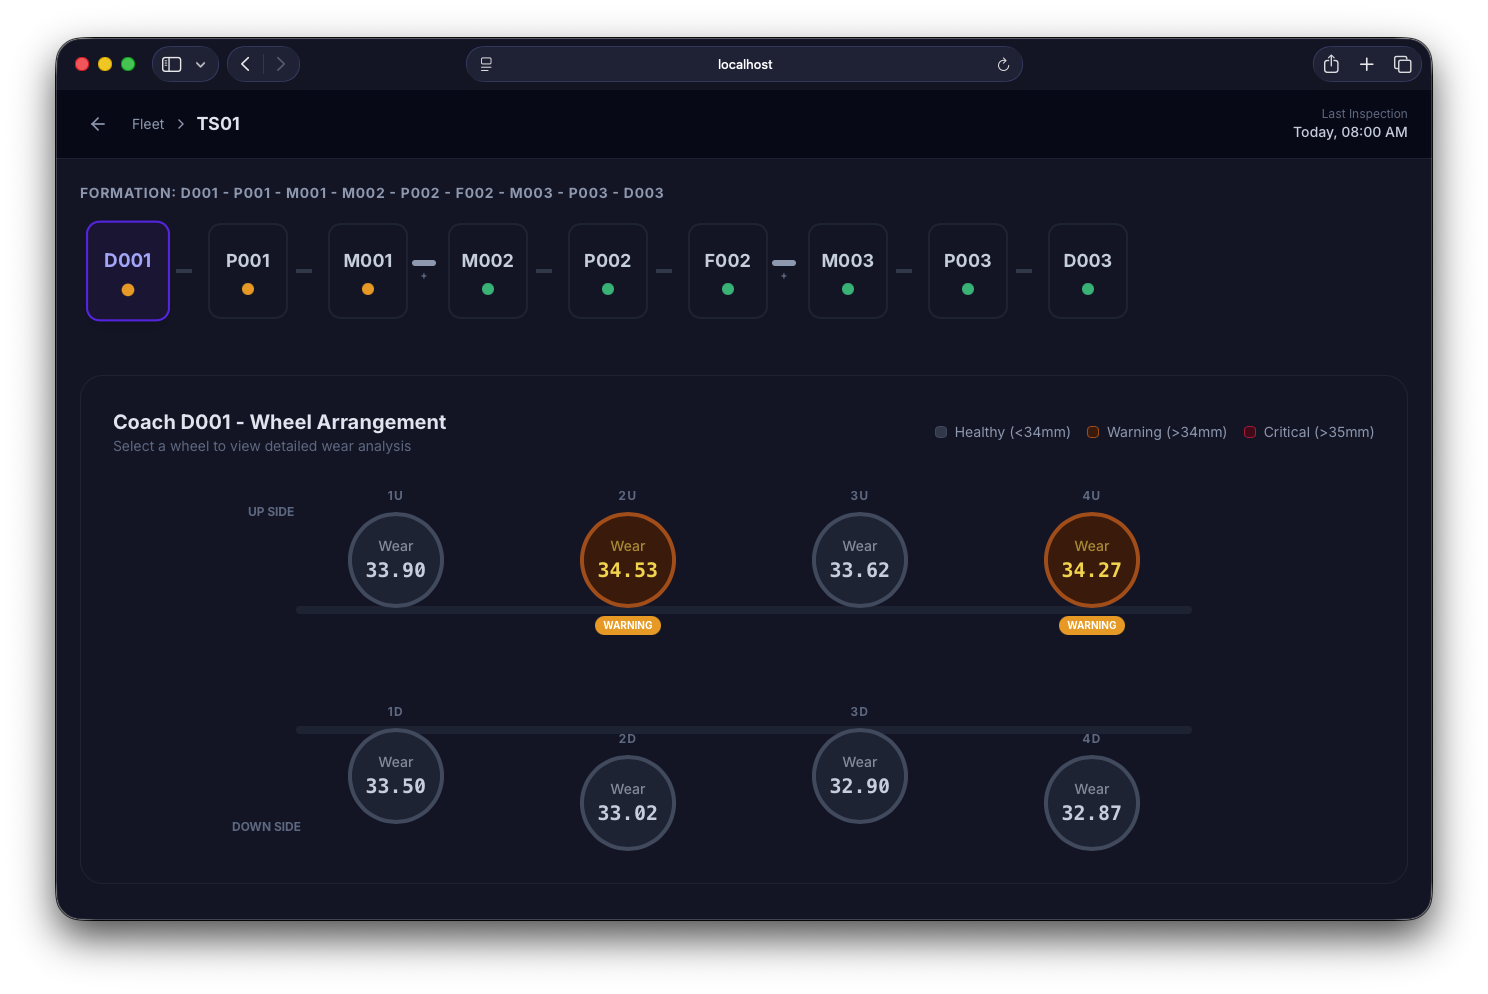
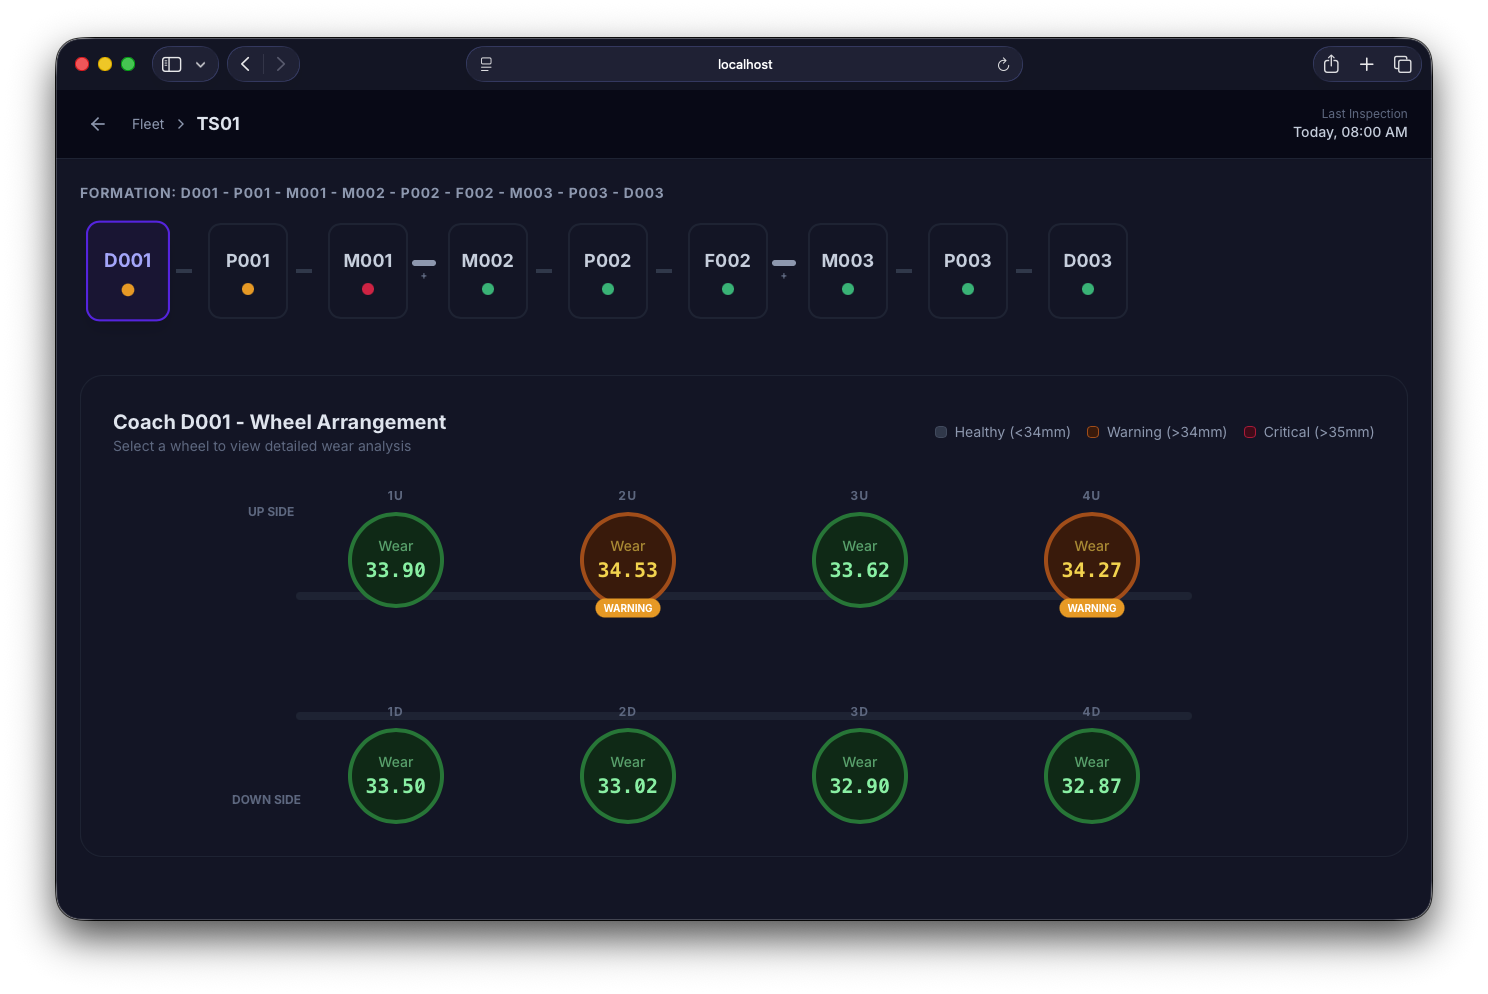
Refactor page.tsx to enhance wheel status determination logic and improve UI responsiveness

diff --git a/src/app/page.tsx b/src/app/page.tsx
@@ -5,9 +5,9 @@ import {
     LineChart, Line, XAxis, YAxis, CartesianGrid, Tooltip, Legend, 
     ResponsiveContainer, ReferenceLine, Area, ComposedChart 
 } from 'recharts';
-import { 
-    AlertTriangle, Train, Search, ChevronRight, Activity, 
-    ArrowLeft, Info, X 
+import {
+    AlertTriangle, Train, Search, ChevronRight, Activity,
+    ArrowLeft, Info, X, RefreshCw
 } from 'lucide-react';
 
 // --- CONSTANTS & LOGIC ---
@@ -58,13 +58,19 @@ const fetchFleet = async () => {
                 for (const wheelId in wheelMap) {
                     const record = wheelMap[wheelId];
 
-                    const currentVal = record.mean.toFixed(2);
+                     const currentVal = record.mean.toFixed(2);
 
-                    // Determine status based on mean
-                    const val = parseFloat(currentVal);
-                    let status: 'healthy' | 'warning' | 'critical' = 'healthy';
-                    if (val >= LIMIT_CRITICAL) status = 'critical';
-                    else if (val >= LIMIT_WARNING) status = 'warning';
+                     // Determine status based on mean and max
+                     const meanVal = parseFloat(record.mean);
+                     const maxVal = parseFloat(record.max);
+                     let status: 'healthy' | 'warning' | 'critical' = 'healthy';
+                     if (meanVal >= LIMIT_CRITICAL) {
+                         status = 'critical';
+                     } else if (meanVal > LIMIT_WARNING && maxVal >= LIMIT_CRITICAL) {
+                         status = 'critical';
+                     } else if (meanVal >= LIMIT_WARNING) {
+                         status = 'warning';
+                     }
 
                     wheels.push({
                         id: `${trainId}-${coachId}-${wheelId}`,
@@ -96,16 +102,17 @@ const fetchFleet = async () => {
                 if (match) {
                     const type = match[1];
                     const num = parseInt(match[2]);
+                    const mod = num % 3;
                     let typeIndex = 0;
-                    if (num === 1) {
+                    if (mod === 1) {
                         if (type === 'D') typeIndex = 0;
                         else if (type === 'P') typeIndex = 1;
                         else if (type === 'M') typeIndex = 2;
-                    } else if (num === 2) {
+                    } else if (mod === 2) {
                         if (type === 'M') typeIndex = 0;
                         else if (type === 'P') typeIndex = 1;
                         else if (type === 'F') typeIndex = 2;
-                    } else if (num === 3) {
+                    } else if (mod === 0) {
                         if (type === 'M') typeIndex = 0;
                         else if (type === 'P') typeIndex = 1;
                         else if (type === 'D') typeIndex = 2;
@@ -178,7 +185,7 @@ const WheelButton = ({ wheel, onClick }: { wheel: any, onClick: () => void }) =>
     if (!wheel) return <div className="w-24 h-24"></div>;
     
     const statusColors = {
-        healthy: 'bg-white border-slate-300 text-slate-600 hover:border-indigo-400 dark:bg-slate-800 dark:border-slate-600 dark:text-slate-300 dark:hover:border-indigo-500',
+        healthy: 'bg-green-50 border-green-400 text-green-700 hover:bg-green-100 dark:bg-green-950 dark:border-green-700 dark:text-green-300 dark:hover:bg-green-900',
         warning: 'bg-amber-50 border-amber-400 text-amber-700 hover:bg-amber-100 dark:bg-amber-950 dark:border-amber-700 dark:text-amber-300 dark:hover:bg-amber-900',
         critical: 'bg-rose-50 border-rose-500 text-rose-700 hover:bg-rose-100 dark:bg-rose-950 dark:border-rose-700 dark:text-rose-300 dark:hover:bg-rose-900'
     };
@@ -186,21 +193,23 @@ const WheelButton = ({ wheel, onClick }: { wheel: any, onClick: () => void }) =>
     return (
         <div className="flex flex-col items-center gap-2">
             <div className="text-xs font-bold text-slate-400 dark:text-slate-500 tracking-widest">{wheel.position}</div>
-            <button 
-                onClick={onClick}
-                className={`
-                    w-24 h-24 rounded-full border-4 shadow-sm transition-all hover:scale-105 flex flex-col items-center justify-center
-                    ${statusColors[wheel.status]}
-                `}
-            >
-                <div className="text-sm font-medium opacity-60">Wear</div>
-                <div className="text-xl font-bold font-mono">{wheel.currentVal}</div>
-            </button>
-            {wheel.status !== 'healthy' && (
-                <div className={`text-[10px] font-bold uppercase px-2 py-0.5 rounded-full ${wheel.status === 'critical' ? 'bg-rose-600 text-white' : 'bg-amber-500 text-white'}`}>
-                    {wheel.status}
-                </div>
-            )}
+            <div className="relative">
+                <button
+                    onClick={onClick}
+                    className={`
+                        w-24 h-24 rounded-full border-4 shadow-sm transition-all hover:scale-105 flex flex-col items-center justify-center
+                        ${statusColors[wheel.status]}
+                    `}
+                >
+                    <div className="text-sm font-medium opacity-60">Wear</div>
+                    <div className="text-xl font-bold font-mono">{wheel.currentVal}</div>
+                </button>
+                {wheel.status !== 'healthy' && (
+                    <div className={`absolute bottom-0 left-1/2 transform -translate-x-1/2 translate-y-1/2 text-[10px] font-bold uppercase px-2 py-0.5 rounded-full ${wheel.status === 'critical' ? 'bg-rose-600 text-white' : 'bg-amber-500 text-white'}`}>
+                        {wheel.status}
+                    </div>
+                )}
+            </div>
         </div>
     );
 };
@@ -215,14 +224,15 @@ const HomePage = () => {
     const [isClient, setIsClient] = useState(false);
     const [isLoading, setIsLoading] = useState(true);
 
+    const loadData = async () => {
+        setIsLoading(true);
+        const data = await fetchFleet();
+        setFleetData(data);
+        setIsClient(true);
+        setIsLoading(false);
+    };
+
     useEffect(() => {
-        const loadData = async () => {
-            setIsLoading(true);
-            const data = await fetchFleet();
-            setFleetData(data);
-            setIsClient(true);
-            setIsLoading(false);
-        };
         loadData();
     }, []);
 
@@ -299,17 +309,25 @@ const HomePage = () => {
                             <p className="text-slate-500 dark:text-slate-400 text-sm mt-1">Real-time Wheel Wear Analysis • 37 Active Trains</p>
                         </div>
                         <div className="flex items-center gap-4">
-                            <div className="relative">
-                                <Search className="absolute left-3 top-2.5 text-slate-400 dark:text-slate-500 w-4 h-4" />
-                                <input 
-                                    type="text" 
-                                    placeholder="Search TS01..." 
-                                    className="pl-10 pr-4 py-2 border border-slate-200 dark:border-slate-700 bg-white dark:bg-slate-800 rounded-lg focus:outline-none focus:ring-2 focus:ring-indigo-500 w-64 text-sm"
-                                    value={searchTerm}
-                                    onChange={(e) => setSearchTerm(e.target.value)}
-                                />
-                            </div>
-                            <div className="flex gap-2 text-xs font-medium">
+                             <div className="relative">
+                                 <Search className="absolute left-3 top-2.5 text-slate-400 dark:text-slate-500 w-4 h-4" />
+                                 <input
+                                     type="text"
+                                     placeholder="Search TS01..."
+                                     className="pl-10 pr-4 py-2 border border-slate-200 dark:border-slate-700 bg-white dark:bg-slate-800 rounded-lg focus:outline-none focus:ring-2 focus:ring-indigo-500 w-64 text-sm"
+                                     value={searchTerm}
+                                     onChange={(e) => setSearchTerm(e.target.value)}
+                                 />
+                             </div>
+                             <button
+                                 onClick={loadData}
+                                 disabled={isLoading}
+                                 className="px-4 py-2 bg-indigo-600 text-white rounded-lg hover:bg-indigo-700 disabled:bg-slate-400 disabled:cursor-not-allowed text-sm font-medium flex items-center gap-2"
+                             >
+                                 <RefreshCw className={`w-4 h-4 ${isLoading ? 'animate-spin' : ''}`} />
+                                 {isLoading ? 'Fetching...' : 'Fetch'}
+                             </button>
+                             <div className="flex gap-2 text-xs font-medium">
                                 <span className="flex items-center gap-1 px-2 py-1 bg-rose-100 dark:bg-rose-950 text-rose-700 dark:text-rose-300 rounded">
                                     <div className="w-2 h-2 bg-rose-600 rounded-full"></div> Critical
                                 </span>
@@ -328,16 +346,16 @@ const HomePage = () => {
                                     onClick={() => handleTrainSelect(train.id)}
                                     className={`
                                         relative group p-4 rounded-xl border transition-all duration-200 flex flex-col items-center justify-center gap-3 h-32
-                                        ${train.status === 'critical' ? 'bg-rose-50 dark:bg-rose-950/50 border-rose-200 dark:border-rose-800/50 hover:bg-rose-100 dark:hover:bg-rose-950 hover:border-rose-300 dark:hover:border-rose-800' : 
-                                        train.status === 'warning' ? 'bg-amber-50 dark:bg-amber-950/50 border-amber-200 dark:border-amber-800/50 hover:bg-amber-100 dark:hover:bg-amber-950 hover:border-amber-300 dark:hover:border-amber-800' : 
-                                        'bg-white dark:bg-slate-900 border-slate-200 dark:border-slate-800 hover:border-indigo-300 dark:hover:border-indigo-700 hover:shadow-md'}
+                                        ${train.status === 'critical' ? 'bg-rose-50 dark:bg-rose-950/50 border-rose-200 dark:border-rose-800/50 hover:bg-rose-100 dark:hover:bg-rose-950 hover:border-rose-300 dark:hover:border-rose-800' :
+                                        train.status === 'warning' ? 'bg-amber-50 dark:bg-amber-950/50 border-amber-200 dark:border-amber-800/50 hover:bg-amber-100 dark:hover:bg-amber-950 hover:border-amber-300 dark:hover:border-amber-800' :
+                                        'bg-green-50 dark:bg-green-950/50 border-green-200 dark:border-green-800/50 hover:bg-green-100 dark:hover:bg-green-950 hover:border-green-300 dark:hover:border-green-800'}
                                     `}
                                 >
                                     <div className="flex items-center justify-between w-full absolute top-3 px-3">
                                         <StatusIndicator status={train.status} />
                                         <ChevronRight className={`w-4 h-4 ${train.status === 'critical' ? 'text-rose-400' : 'text-slate-300 dark:text-slate-600'}`} />
                                     </div>
-                                    <Train className={`w-8 h-8 ${train.status === 'critical' ? 'text-rose-600' : train.status === 'warning' ? 'text-amber-600' : 'text-slate-400 dark:text-slate-500 group-hover:text-indigo-600'}`} />
+                                    <Train className={`w-8 h-8 ${train.status === 'critical' ? 'text-rose-600' : train.status === 'warning' ? 'text-amber-600' : 'text-green-600 group-hover:text-green-700'}`} />
                                     <span className="font-bold text-lg text-slate-700 dark:text-slate-300">{train.id}</span>
                                 </button>
                             ))}
